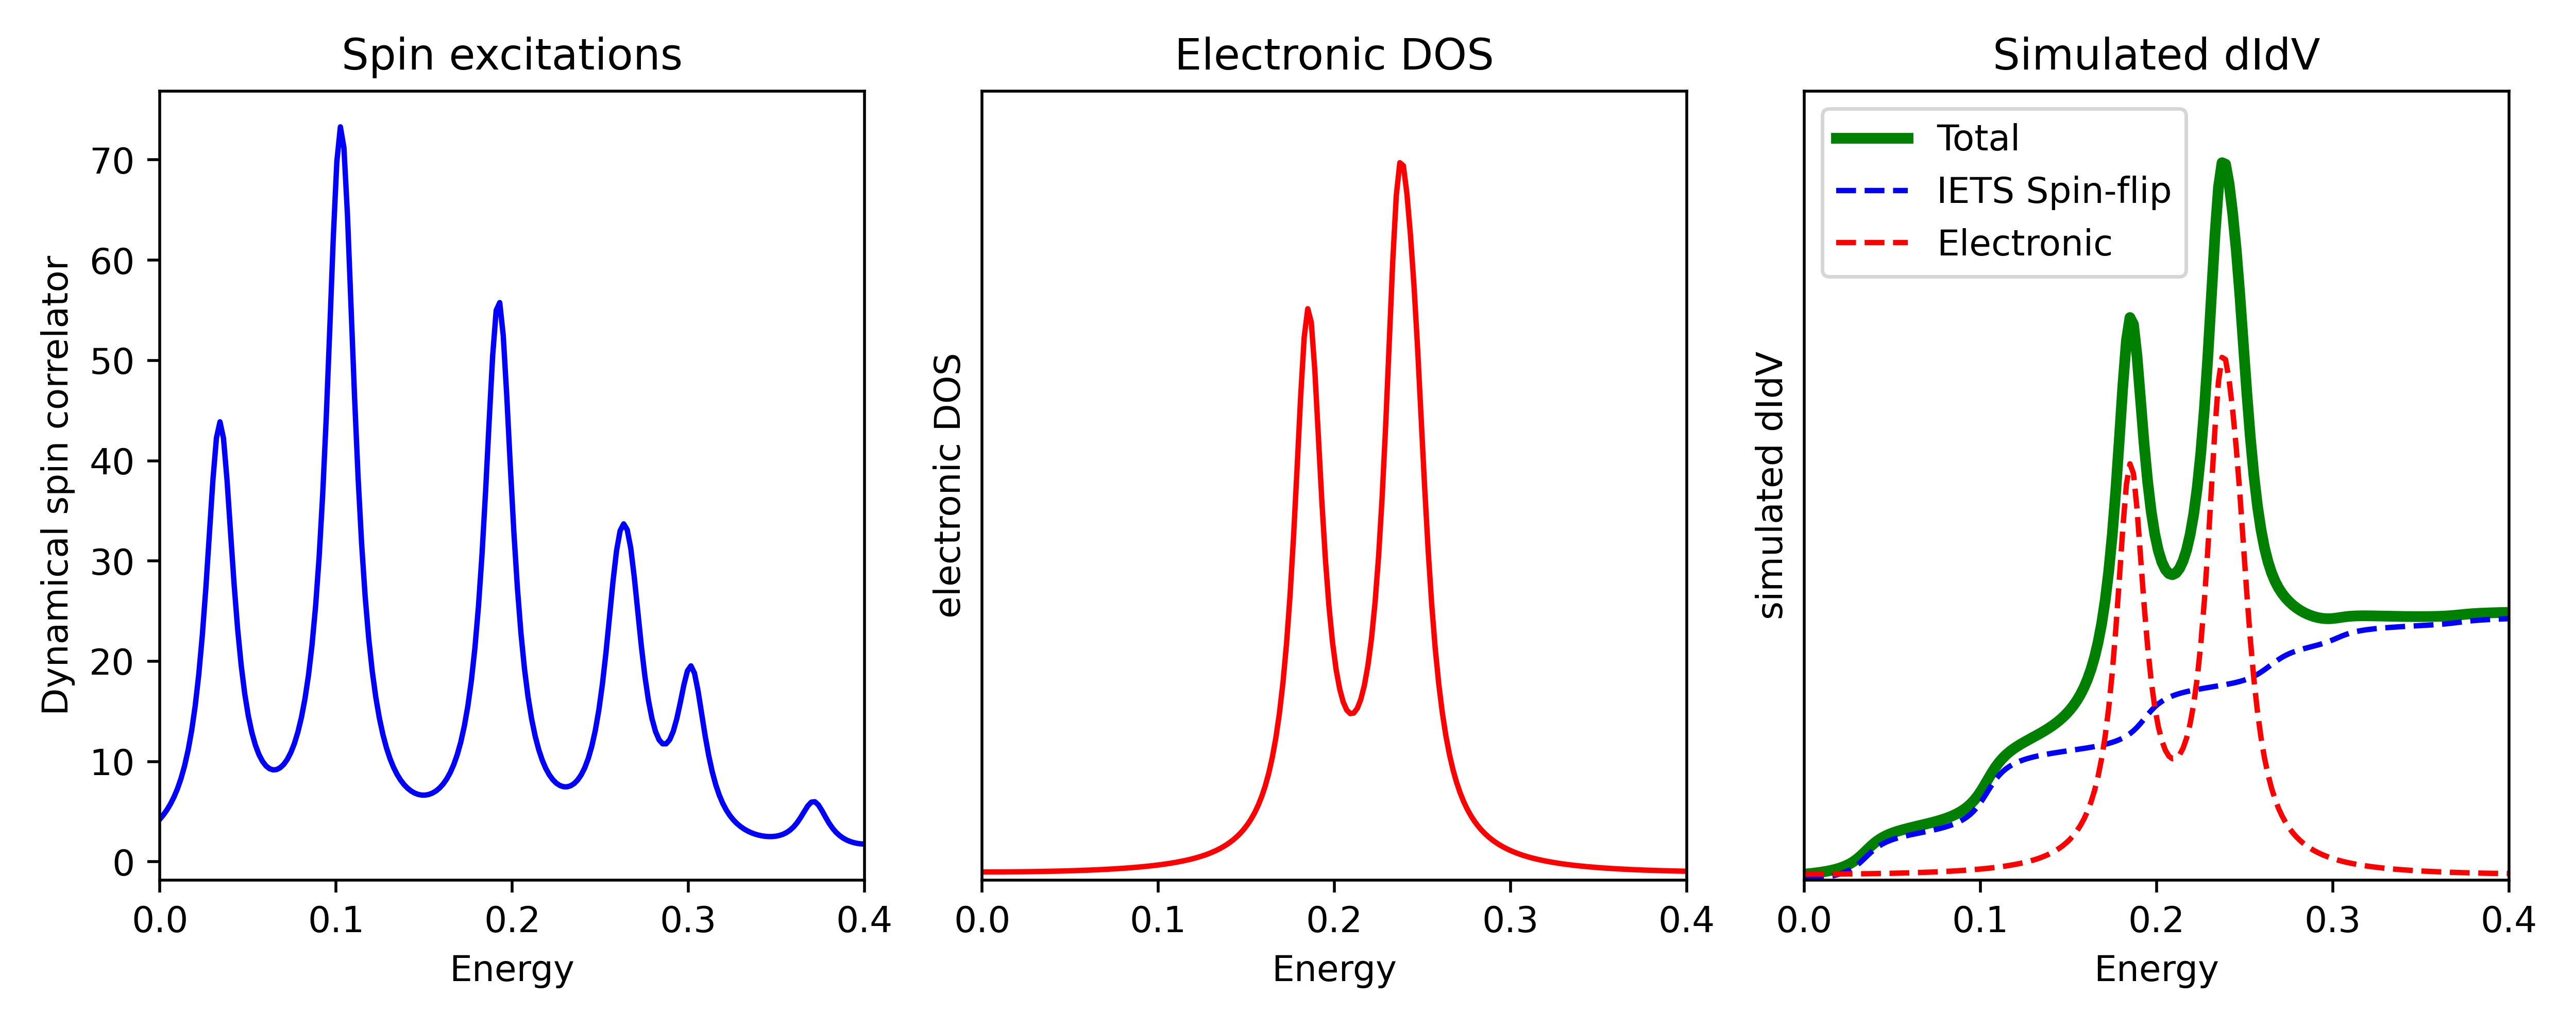
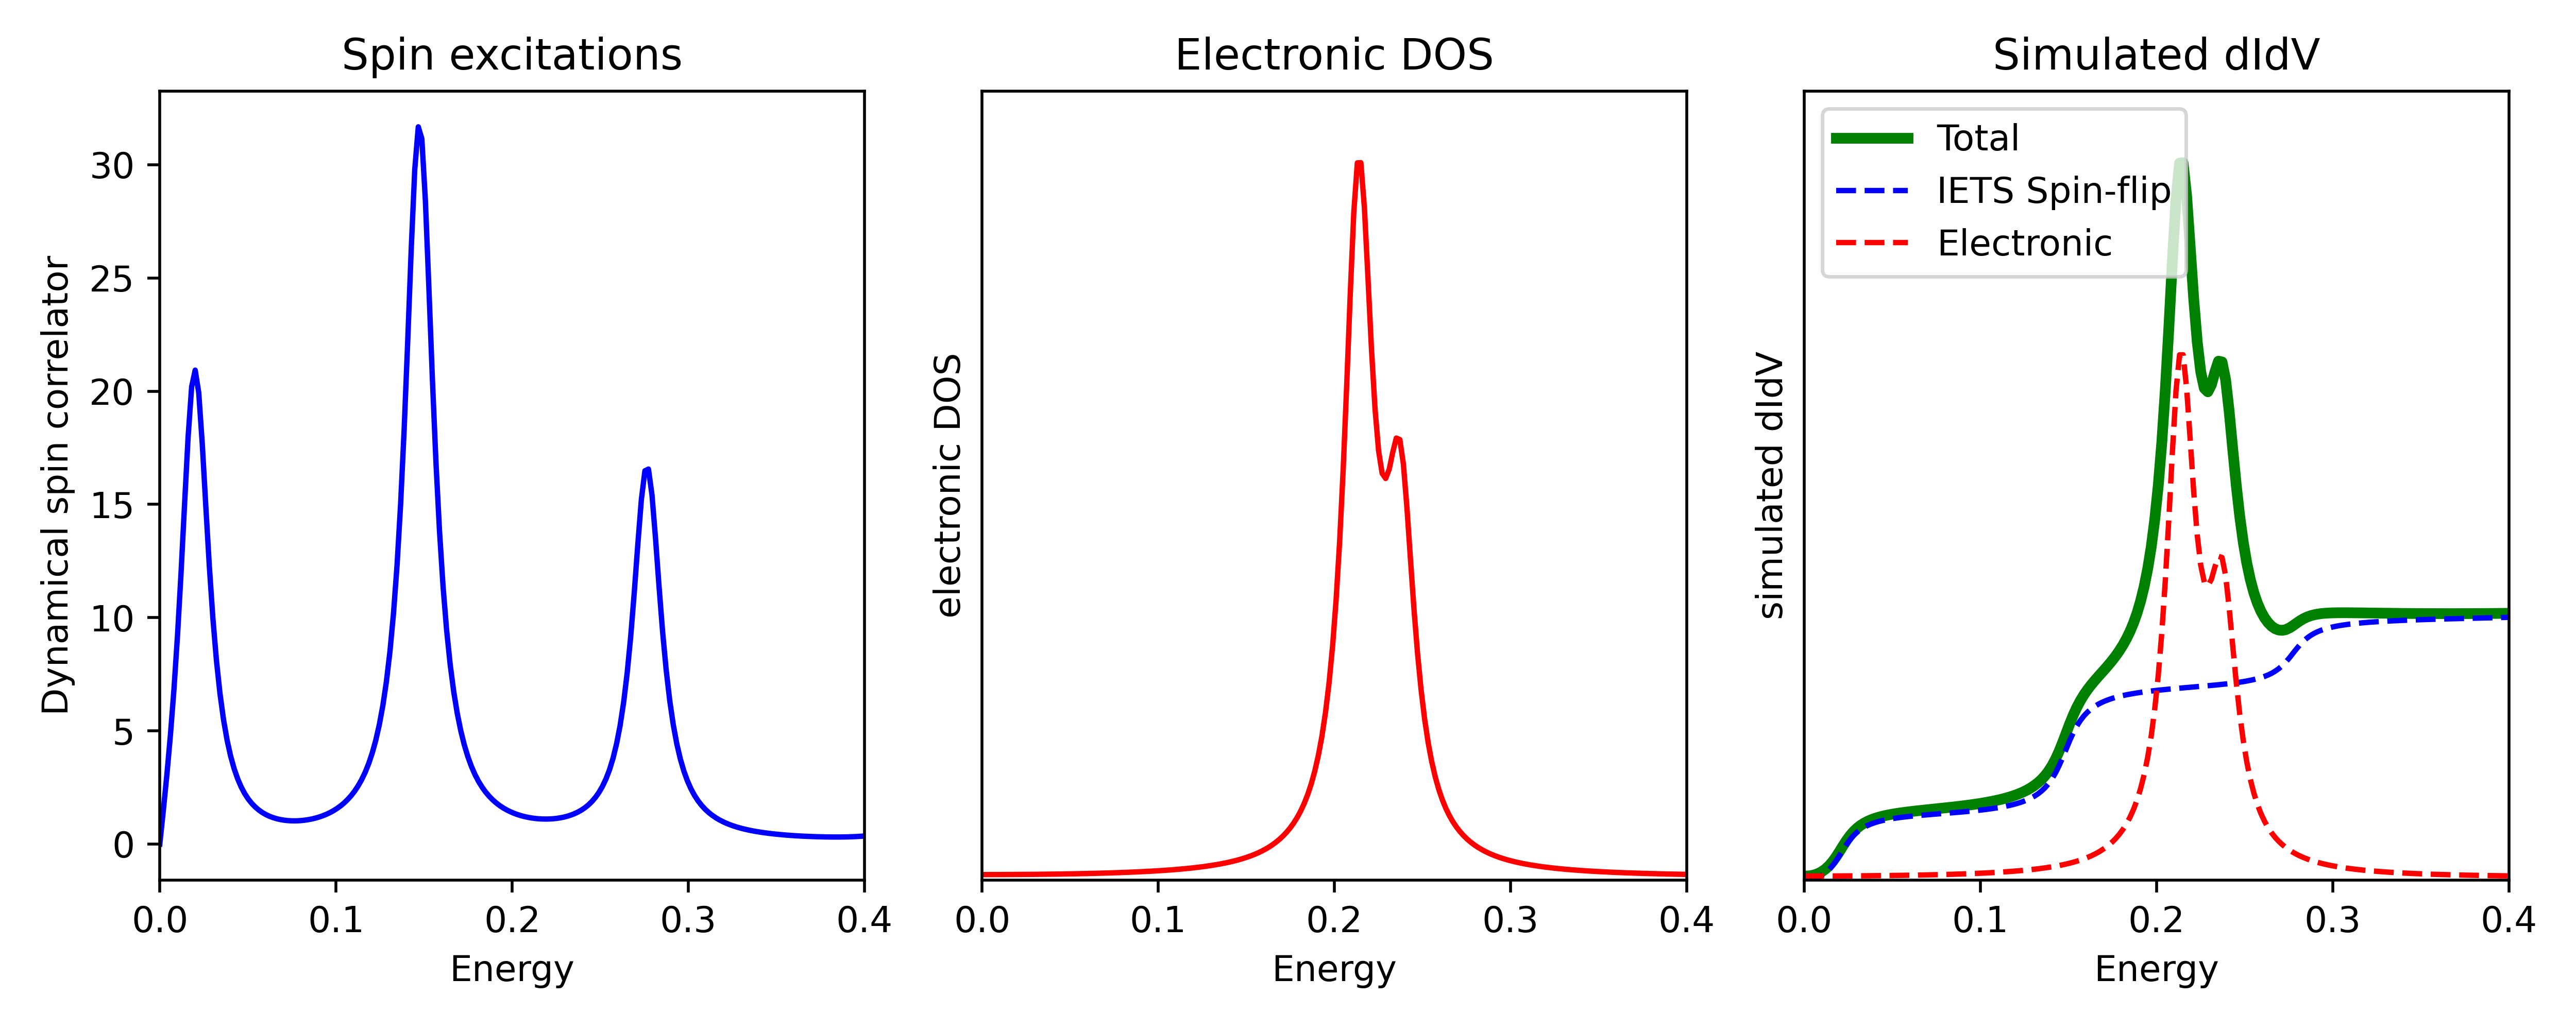
Update

diff --git a/src/pyqula/densitymatrix.py b/src/pyqula/densitymatrix.py
@@ -6,55 +6,93 @@ from . import parallel
 delta_dm = 1e-6 # default energy smearing
 
 
-use_fortran = False
+def full_dm(h,dm_mode="accumulate",**kwargs):
+    """Compute the full density matrix"""
+    if dm_mode=="accumulate":
+        return full_dm_accumulate(h,**kwargs)
+    elif dm_mode=="simultaneous":
+        return full_dm_simultaneous(h,**kwargs)
+    else: raise # not implemented
 
-def full_dm(h,use_fortran=use_fortran,nk=10,fermi=0.0,
+
+def full_dm_accumulate(h,nk=10,fermi=0.0,
         delta=delta_dm,
         ds=None):
-  if h.dimensionality == 0: fac = 1.
-  elif h.dimensionality == 1: fac = 1./nk
-  elif h.dimensionality == 2: fac = 1./nk**2
-  elif h.dimensionality == 3: fac = 1./nk**3
-  else: raise
-  if ds is None: # no directions required
-    es,vs = h.get_eigenvectors(nk=nk) # get eigenvectors
-    es = es - fermi # shift by the Fermi energy
-#    if use_fortran:
-#      dm = density_matrixf90.density_matrix(np.array(es),np.array(vs),delta)
-#      return dm*fac
-#    else:
-    return np.matrix(full_dm_python(h.intra.shape[0],es,np.array(vs),
-                           delta=delta))*fac # call the function
-  else: # directions required
-    es,vs,ks = h.get_eigenvectors(nk=nk,kpoints=True) # get eigenvectors
-    es = es - fermi # shift by the Fermi energy
-    ks = np.array(ks) # to array
-    n = h.intra.shape[0] # dimensionality
-    out = parallel.pcall(lambda x: full_dm_python_d(n,es,vs,ks,x)*fac,ds)
-#    out = [full_dm_python_d(n,es,vs,ks,d)*fac for d in ds] # compute all the DM
-    outd = dict() # dictionary
-    for i in range(len(ds)): outd[tuple(ds[i])] = out[i] # as dictionary
-    return outd
-#    return out # return all the density matrices
+    """Compute the full density matrix by adding the
+    contributions to the matrix kpoint by kpoint"""
+    hk = h.get_hk_gen() # get the Hamiltonian generator
+    from .klist import kmesh
+    ks = h.geometry.get_kmesh(nk=nk) # get the mesh
+    fac = 1./len(ks) # normalization
+    # create the storages
+    norb = h.intra.shape[0] # size of the matrix
+    if ds is None: dm = np.zeros((norb,norb),dtype=np.complex128)
+    else: dm = np.zeros((len(ds),norb,norb),dtype=np.complex128)
+    for k in ks: # loop over kpoints
+        (es,vs) = algebra.eigh(hk(k)) ; vs = vs.T # diagonalize
+        es = es-fermi # substract fermi energy
+        if ds is None: dm += full_dm_python(es,vs,delta=delta)
+        else: 
+            kes = np.zeros((len(es),3))
+            kes[:,0] = k[0] ; kes[:,1] = k[1] ; kes[:,2] = k[2] # kpoints
+            for i in range(len(ds)):
+                dm[i,:,:] += full_dm_python_d(es,vs,kes,ds[i]) # add 
+    dm = dm*fac # renormalize
+    if ds is None: return dm # return the single array
+    else: # if ds were given
+        outd = dict() # dictionary
+        for i in range(len(ds)): outd[tuple(ds[i])] = dm[i,:,:] # as dictionary
+        return outd
+    
+
+
+def full_dm_simultaneous(h,nk=10,fermi=0.0,
+        delta=delta_dm,
+        ds=None):
+    """Compute the full density matrix by first computing all the
+    eigenvectors, and after adding all the contributions together.
+    This can become memore expesive for large kmesh and moderate
+    matrices"""
+    if h.dimensionality == 0: fac = 1.
+    elif h.dimensionality == 1: fac = 1./nk
+    elif h.dimensionality == 2: fac = 1./nk**2
+    elif h.dimensionality == 3: fac = 1./nk**3
+    else: raise
+    if ds is None: # no directions required
+      es,vs = h.get_eigenvectors(nk=nk) # get eigenvectors
+      es = es - fermi # shift by the Fermi energy
+      return np.matrix(full_dm_python(es,np.array(vs),
+                             delta=delta))*fac # call the function
+    else: # directions required
+      es,vs,ks = h.get_eigenvectors(nk=nk,kpoints=True) # get eigenvectors
+      es = es - fermi # shift by the Fermi energy
+      ks = np.array(ks) # to array
+      n = h.intra.shape[0] # dimensionality
+      out = parallel.pcall(lambda x: full_dm_python_d(es,vs,ks,x)*fac,ds)
+      outd = dict() # dictionary
+      for i in range(len(ds)): outd[tuple(ds[i])] = out[i] # as dictionary
+      return outd
 
 
 
-def full_dm_python(n,es,vs,delta=1e-6):
+def full_dm_python(es,vs,delta=1e-6):
   """Calculate the density matrix"""
-  dm = np.zeros((n,n),dtype=np.complex128)
-  return full_dm_python_jit(n,es,vs,dm,delta)
+  n = len(vs[0]) # size of the matrix from the first vector
+  return full_dm_python_jit(n,np.array(es),np.array(vs),delta)
 
 
-def full_dm_python_d(n,es,vs,ks,d):
+def full_dm_python_d(es,vs,ks,d):
   """Calculate the density matrix"""
+  n = len(vs[0]) # size of the matrix from the first vector
   dm = np.zeros((n,n),dtype=np.complex128)
   return full_dm_python_d_jit(n,es,vs,ks,np.array(d),dm)
 
 
 
 @jit(nopython=True)
-def full_dm_python_jit(n,es,vs,dm,delta):
+def full_dm_python_jit(n,es,vs,delta):
   """Auxiliary function to compute the density matrix"""
+  dm = np.zeros((n,n),dtype=np.complex128)
   for ie in range(len(es)): # loop
       occ = (1.0 - np.tanh(es[ie]/delta))/2. # occupation
       for i in range(n):
@@ -81,20 +119,12 @@ def full_dm_python_d_jit(n,es,vs,ks,d,dm):
 
 
 
-
-
-
-
-
-
-
-
-def restricted_dm(h,use_fortran=False,mode="KPM",pairs=[],
+def restricted_dm(h,mode="KPM",pairs=[],
                    scale=10.0,npol=400,ne=None):
   """Calculate certain elements of the density matrix"""
   if h.dimensionality != 0 : raise
   if mode=="full": # full inversion and then select
-    dm = full_dm(h,use_fortran=use_fortran) # Full DM
+    dm = full_dm(h) # Full DM
     outm = np.array([dm[j,i] for (i,j) in pairs]) # get the desired ones
     return outm # return elements
   elif mode=="KPM": # use Kernel polynomial method
@@ -117,10 +147,5 @@ def occupied_projector(m,delta=0.0):
     """Return a projector onto the occupied states"""
     (es,vs) = algebra.eigh(m) # diagonalize
     vs = vs.T # transpose
-#    vs = vs[es<0.0] # occupied states
-    if use_fortran:
-      dm = density_matrixf90.density_matrix(np.array(es),np.array(vs),delta)
-      return np.array(dm)
-    else:
-      return np.array(full_dm_python(m.shape[0],es,np.array(vs)))
+    return np.array(full_dm_python(m.shape[0],es,np.array(vs)))
 

diff --git a/uniitest/scf/rotational_symmetry/main.py b/uniitest/scf/rotational_symmetry/main.py
@@ -1,0 +1,30 @@
+# Add the root path of the pyqula library
+import os ; import sys
+sys.path.append(os.environ["PYQULAROOT"])
+
+import numpy as np
+from pyqula import geometry
+
+g = geometry.bichain()
+h0 = g.get_hamiltonian()
+maxerror= 1e-8 # error is SCF
+def compute():
+    v = np.random.random(3)-.5 # random exchange
+    v = 2*v/np.sqrt(v.dot(v)) # normalize
+    vs = [v,-v]
+    mf = h0.copy() ; mf.add_exchange(vs) # make this initial guess
+    h1 = h0.copy() ; h1.add_exchange(.4*v) # add some bias
+    h,etot = h1.get_mean_field_hamiltonian(nk=20,mf=mf,U=2.,
+                                           maxerror=maxerror,
+                                      return_total_energy=True) 
+    return etot
+
+etots = np.array([compute() for i in range(6)]) # compute 6 times
+print(etots)
+diff = etots-np.mean(etots) # differences
+if np.max(np.abs(diff))>maxerror*10:
+    print("Warning, no rotational symmetry")
+    print(diff)
+    raise
+
+

diff --git a/uniitest/scf/rotational_symmetry_SC/main.py b/uniitest/scf/rotational_symmetry_SC/main.py
@@ -1,0 +1,29 @@
+# Add the root path of the pyqula library
+import os ; import sys
+sys.path.append(os.environ["PYQULAROOT"])
+
+import numpy as np
+from pyqula import geometry
+
+g = geometry.bichain()
+h0 = g.get_hamiltonian()
+maxerror= 1e-8 # error is SCF
+def compute():
+    v = np.random.random(3)-.5 # random exchange
+    v = 4*v/np.sqrt(v.dot(v)) # normalize
+    h1 = h0.copy() ; h1.add_exchange(v) # add some zeeman field
+    h1.turn_nambu()
+    h,etot = h1.get_mean_field_hamiltonian(nk=20,mf="random",V1=-2.,
+                                           filling = .3,
+                                           maxerror=maxerror,
+                                      return_total_energy=True) 
+    return h.get_gap() # return the gap
+
+etots = np.array([compute() for i in range(6)]) # compute 6 times
+print(etots)
+diff = etots-np.mean(etots) # differences
+if np.max(np.abs(diff))>maxerror*10:
+    print("Warning, no rotational symmetry")
+    raise
+
+

diff --git a/examples/readme_examples/scf_SC_triplet/plot.py b/examples/readme_examples/scf_SC_triplet/plot.py
@@ -1,0 +1,10 @@
+import numpy as np
+import matplotlib.pyplot as plt
+
+m = np.genfromtxt("KDOS_BANDS.OUT").T
+k = np.unique(m[0])
+e = np.unique(m[1])
+d = m[2].reshape((len(k),len(e))).T
+
+plt.contourf(k,e,d,levels=40,cmap="inferno")
+plt.show()

diff --git a/examples/1d/zigzag_ribbon_SCF/main.py b/examples/1d/zigzag_ribbon_SCF/main.py
@@ -11,10 +11,8 @@ from pyqula import geometry
 from pyqula import scftypes
 g = geometry.honeycomb_zigzag_ribbon(10) # create geometry of a zigzag ribbon
 h = g.get_hamiltonian() # create hamiltonian of the system
-mf = scftypes.guess(h,"ferro",fun=lambda r: [0.,0.,1.])
-scf = scftypes.hubbardscf(h,nkp=30,filling=0.5,mf=mf)
-h = scf.hamiltonian # get the Hamiltonian
-h.get_bands(operator="sz") # calculate band structure
+h = h.get_mean_field_hamiltonian(U=1.0,nk=100) # get the Hamiltonian
+#h.get_bands(operator="sz") # calculate band structure
 
 
 

diff --git a/examples/2d/nonunitarity_triangular/main.py b/examples/2d/nonunitarity_triangular/main.py
@@ -8,6 +8,7 @@ h = g.get_hamiltonian() # create Hamiltonian of the system
 h.add_exchange([3.,3.,3.]) # add exchange field
 h.setup_nambu_spinor() # initialize the Nambu basis
 # perform a superconducting non-collinear mean-field calculation
-scf = meanfield.Vinteraction(h,V1=-1.0,filling=0.3,mf="random")
+h = h.get_mean_field_hamiltonian(V1=-1.0,filling=0.3,mf="random")
 # compute the non-unitarity of the spin-triplet superconducting d-vector 
-d = scf.hamiltonian.get_dvector_non_unitarity() # non-unitarity of spin-triplet 
+d = h.get_dvector_non_unitarity() # non-unitarity of spin-triplet 
+print(d)

diff --git a/src/pyqula/integration.py b/src/pyqula/integration.py
@@ -7,7 +7,7 @@ adaptive_error = 1e-2 # error in adaptive algorithm
 
 
 from scipy.integrate import quad_vec
-
+# this uses adaptive integration, it may be useful for some case
 def integrate_matrix_quad(f,xlim=[0.,1.],eps=0.1,only_imag=False):
     """Quad integration of a matrix, perhaps useful at some point"""
     return quad_vec(f,xlim[0],xlim[1],epsrel=eps,epsabs=eps)[0]